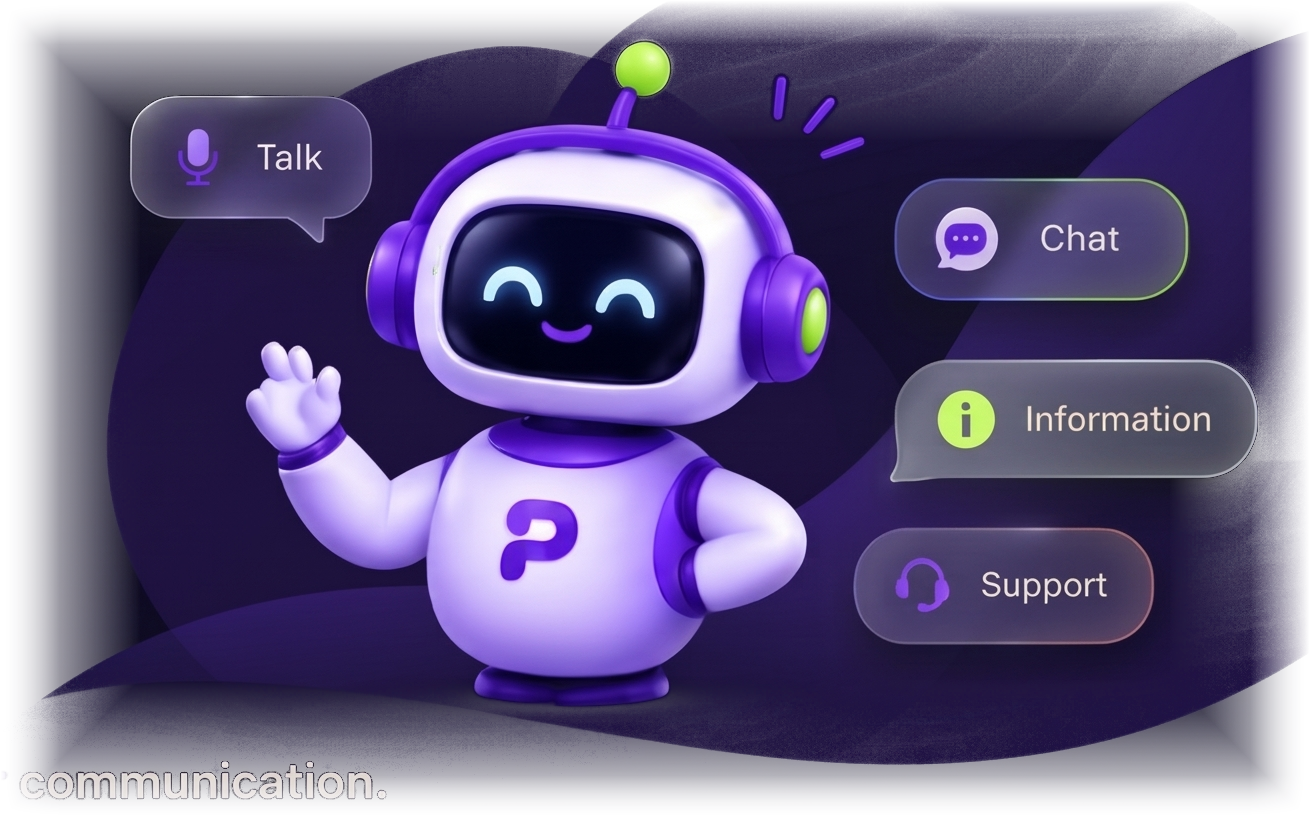
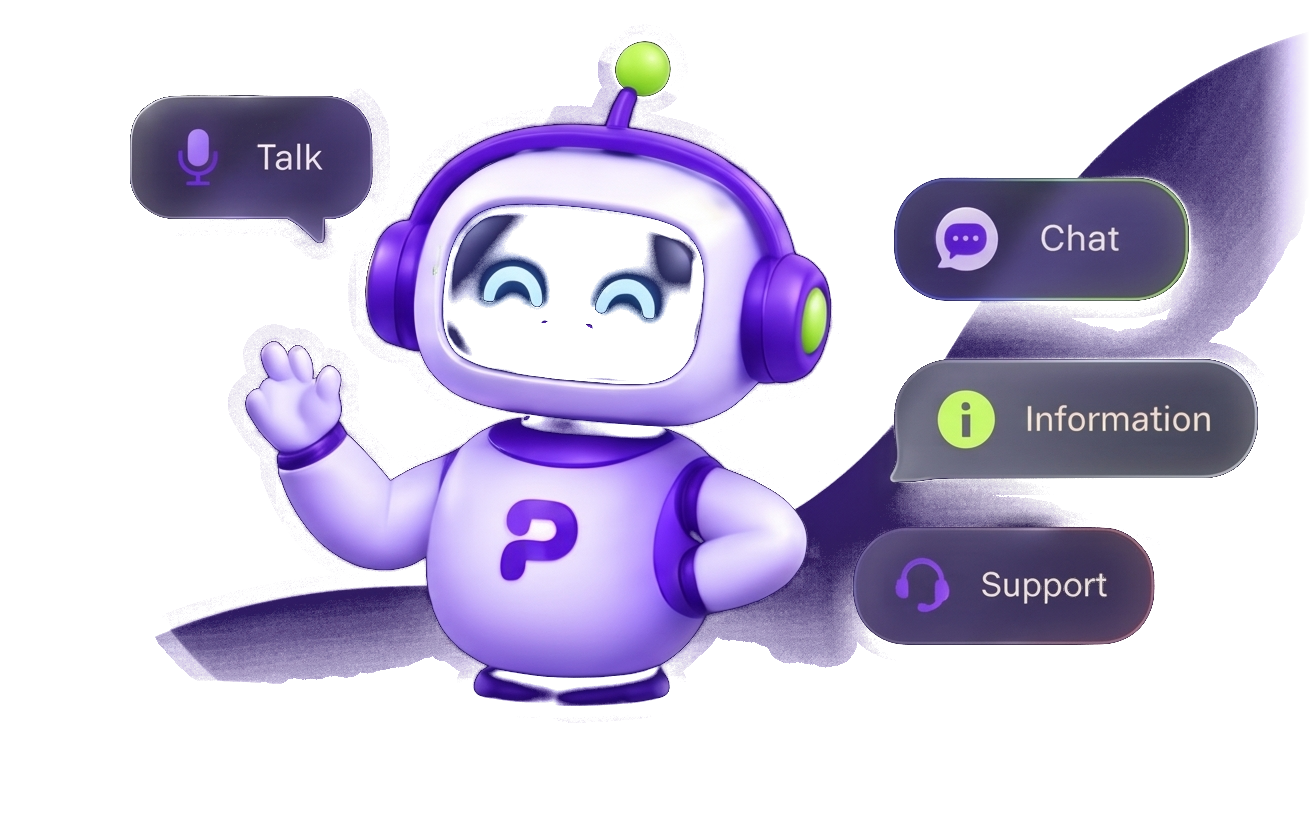
fix(home): remove Home nav item, transparent hero robot, update workflow labels & Module 07 integrations

diff --git a/components/home/Hero.tsx b/components/home/Hero.tsx
@@ -13,7 +13,7 @@ export const Hero: React.FC = () => {
       <div className="absolute top-10 right-0 w-[650px] h-[650px] bg-[#3984FF]/12 rounded-full blur-[140px] pointer-events-none animate-pulse-glow" />
       <div className="absolute top-1/2 right-1/4 w-[400px] h-[400px] bg-[#20C5D8]/10 rounded-full blur-[100px] pointer-events-none" />
 
-      {/* Floating animation & seamless background blending mask styles */}
+      {/* Floating animation */}
       <style>{`
         @keyframes pingoHeroFloat {
           0%, 100% {
@@ -31,15 +31,6 @@ export const Hero: React.FC = () => {
           .hero-floating-robot {
             animation: none;
           }
-        }
-        /* Radial edge feathering mask: removes rectangular image borders completely */
-        .hero-robot-mask {
-          mask-image: radial-gradient(ellipse 72% 70% at 50% 50%, #000 50%, rgba(0, 0, 0, 0.6) 66%, rgba(0, 0, 0, 0.15) 80%, transparent 94%);
-          -webkit-mask-image: radial-gradient(ellipse 72% 70% at 50% 50%, #000 50%, rgba(0, 0, 0, 0.6) 66%, rgba(0, 0, 0, 0.15) 80%, transparent 94%);
-        }
-        .dark .hero-robot-mask {
-          mask-image: radial-gradient(ellipse 80% 78% at 50% 50%, #000 58%, rgba(0, 0, 0, 0.85) 74%, transparent 98%);
-          -webkit-mask-image: radial-gradient(ellipse 80% 78% at 50% 50%, #000 58%, rgba(0, 0, 0, 0.85) 74%, transparent 98%);
         }
       `}</style>
 
@@ -87,14 +78,14 @@ export const Hero: React.FC = () => {
               className="absolute inset-0 max-w-[420px] mx-auto bg-gradient-to-tr from-[#635BFF]/20 via-[#3984FF]/25 to-[#20C5D8]/25 rounded-full filter blur-3xl transform scale-90 pointer-events-none"
             />
 
-            {/* Mascot Image Container: Floating, zero card frame, zero border */}
+            {/* Mascot Image Container: Floating transparent mascot, zero card frame, zero border */}
             <div className="relative w-full max-w-[360px] sm:max-w-[420px] lg:max-w-[460px] xl:max-w-[500px] hero-floating-robot">
-              <div className="relative hero-robot-mask drop-shadow-[0_15px_35px_rgba(99,91,255,0.18)] dark:drop-shadow-[0_20px_45px_rgba(32,197,216,0.22)]">
+              <div className="relative drop-shadow-[0_15px_30px_rgba(99,91,255,0.12)] dark:drop-shadow-[0_20px_40px_rgba(32,197,216,0.18)]">
                 <Image
-                  src="/images/pingo-robot-hero.jpg"
+                  src="/images/pingo-robot.png"
                   alt="Pingo 3D Robot Mascot with Talk, Chat, Information, and Support badges"
-                  width={1024}
-                  height={768}
+                  width={1310}
+                  height={820}
                   className="w-full h-auto object-contain block"
                   priority
                 />

diff --git a/components/home/ProductFeaturePreview.tsx b/components/home/ProductFeaturePreview.tsx
@@ -55,7 +55,7 @@ export const ProductFeaturePreview: React.FC<ProductFeaturePreviewProps> = ({
     "Helpdesk & SLA Queue",
     "Team & Access Control",
     "Intelligence & CSAT",
-    "6 Channels Connected",
+    "4 Live Channels",
     "Enterprise Security Active",
   ];
 
@@ -608,19 +608,17 @@ export const ProductFeaturePreview: React.FC<ProductFeaturePreviewProps> = ({
                   <span>Omnichannel Integration Ecosystem</span>
                 </span>
                 <span className="text-[10px] font-mono text-[#782BFF] dark:text-[#B5FF45] bg-[#782BFF]/10 dark:bg-[#B5FF45]/10 px-2 py-0.5 rounded border border-[#782BFF]/20 dark:border-[#B5FF45]/20">
-                  6 Live Channels
+                  4 Live Channels
                 </span>
               </div>
 
               {/* Channels Grid */}
               <div className="grid grid-cols-2 gap-2.5">
                 {[
-                  { name: "JavaScript Web Widget", status: "Active (v2.4)", ok: true },
+                  { name: "JavaScript Web Widget", status: "Active", ok: true },
                   { name: "WhatsApp Business API", status: "Connected", ok: true },
                   { name: "Instagram Direct", status: "Connected", ok: true },
-                  { name: "REST API & Webhooks", status: "24k req/day", ok: true },
-                  { name: "Zendesk Connector", status: "Sync Active", ok: true },
-                  { name: "Jira Service Management", status: "Bi-directional", ok: true },
+                  { name: "WordPress Integration", status: "Available", ok: true },
                 ].map((item, i) => (
                   <div
                     key={i}
@@ -634,7 +632,13 @@ export const ProductFeaturePreview: React.FC<ProductFeaturePreviewProps> = ({
                         {item.status}
                       </div>
                     </div>
-                    <span className="w-2 h-2 rounded-full bg-[#10B981] dark:bg-[#B5FF45] shadow-[0_0_6px_#10B981] dark:shadow-[0_0_6px_#B5FF45]" />
+                    <span
+                      className={`w-2 h-2 rounded-full ${
+                        item.status === "Available"
+                          ? "bg-[#3984FF] dark:bg-[#20C5D8] shadow-[0_0_6px_#3984FF] dark:shadow-[0_0_6px_#20C5D8]"
+                          : "bg-[#10B981] dark:bg-[#B5FF45] shadow-[0_0_6px_#10B981] dark:shadow-[0_0_6px_#B5FF45]"
+                      }`}
+                    />
                   </div>
                 ))}
               </div>

diff --git a/data/howItWorks.ts b/data/howItWorks.ts
@@ -35,7 +35,7 @@ export const howItWorksSetupData: HowItWorksSectionData = {
     {
       id: "connect-website",
       stepNumber: "01",
-      title: "Connect Your Website",
+      title: "Connect the Website",
       description: "Connect your business website to Pingo.",
       badge: "Discovery",
       statusText: "Connection successful ✓",
@@ -43,7 +43,7 @@ export const howItWorksSetupData: HowItWorksSectionData = {
     {
       id: "knowledge-centers",
       stepNumber: "02",
-      title: "Build Your Knowledge Centers",
+      title: "Build Knowledge Center",
       description:
         "Bring your business information together to create knowledge sources for your AI agent.",
       badge: "Knowledge",
@@ -52,7 +52,7 @@ export const howItWorksSetupData: HowItWorksSectionData = {
     {
       id: "develop-agent",
       stepNumber: "03",
-      title: "Develop Your AI Agent",
+      title: "Develop AI Agent",
       description:
         "Create and configure an AI agent using your business knowledge.",
       badge: "Configuration",
@@ -61,7 +61,7 @@ export const howItWorksSetupData: HowItWorksSectionData = {
     {
       id: "support-team",
       stepNumber: "04",
-      title: "Create Your Support Team",
+      title: "Create a Support Team",
       description:
         "Create your human support team to manage customer conversations.",
       badge: "Team",
@@ -70,7 +70,7 @@ export const howItWorksSetupData: HowItWorksSectionData = {
     {
       id: "customize-widget",
       stepNumber: "05",
-      title: "Customize Your Chat Widget",
+      title: "Customize the Chat Widget",
       description:
         "Generate a customizable chat widget that matches your brand identity.",
       badge: "Branding",

diff --git a/data/productFeatures.ts b/data/productFeatures.ts
@@ -142,14 +142,12 @@ export const productFeaturesData: ProductFeaturesSectionData = {
       title: "Integrations & Channels",
       headline: "Connect Pingo with your existing ecosystem.",
       description:
-        "JavaScript chat widget, website integration, WhatsApp, Instagram, APIs, and external ticketing platforms.",
+        "JavaScript chat widget, WhatsApp, Instagram, and WordPress integration.",
       features: [
-        "JavaScript Chat Widget",
-        "Website Integration",
-        "WhatsApp",
-        "Instagram",
-        "APIs & Webhooks",
-        "External Ticketing Platforms",
+        "JavaScript Web Widget",
+        "WhatsApp Business API",
+        "Instagram Direct",
+        "WordPress Integration",
       ],
       iconName: "Layers",
     },

diff --git a/data/customerJourney.ts b/data/customerJourney.ts
@@ -25,7 +25,7 @@ export const customerJourneyData: CustomerJourneyData = {
     {
       id: "visitor-arrives",
       stepNumber: "01",
-      title: "Customer Visits Your Website",
+      title: "Customer Visits the Website",
       description:
         "When a visitor opens your website, the Pingo chat widget automatically appears.",
       badge: "Arrival",

diff --git a/data/navigation.ts b/data/navigation.ts
@@ -13,10 +13,6 @@ export interface NavItem {
 
 export const navigationItems: NavItem[] = [
   {
-    label: "Home",
-    href: "/",
-  },
-  {
     label: "About",
     href: "/about",
   },
